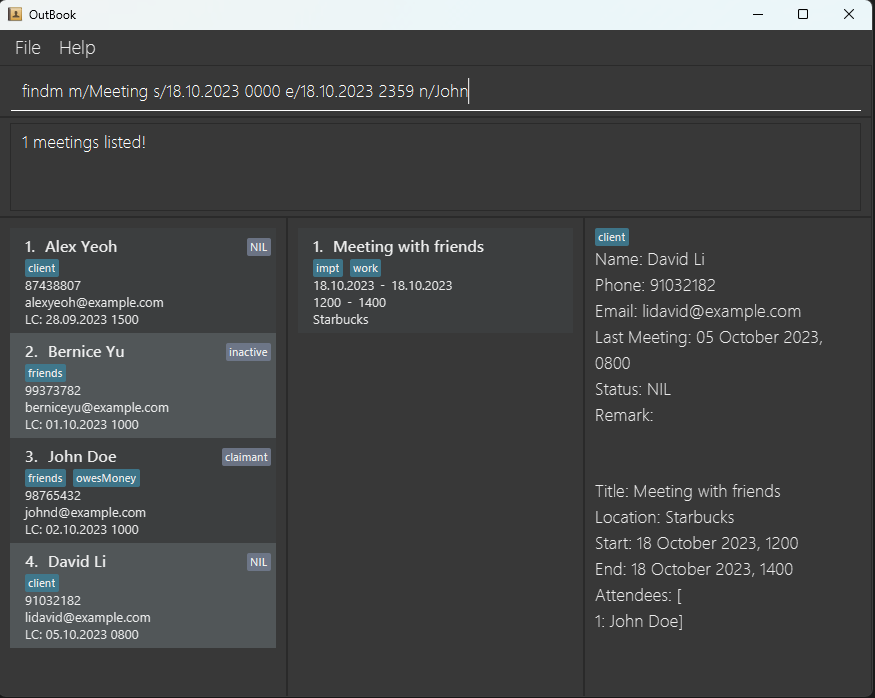
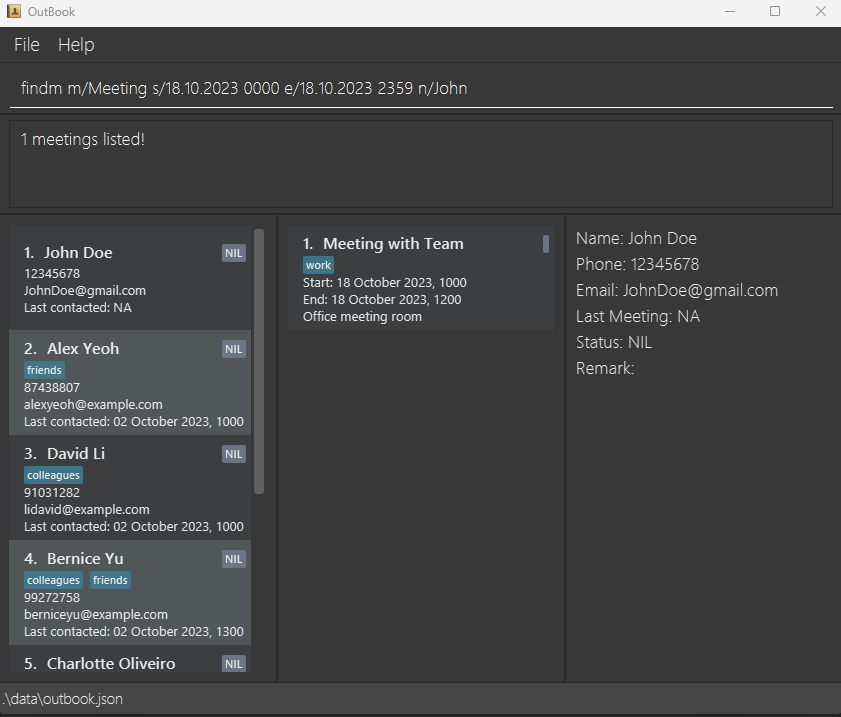
Update images

diff --git a/src/main/java/seedu/address/model/util/SampleDataUtil.java b/src/main/java/seedu/address/model/util/SampleDataUtil.java
@@ -37,7 +37,7 @@ public class SampleDataUtil {
                         DateTimeUtil.parse("02.10.2023 1500"), new Status(""), new Remark(""),
                         getTagSet("neighbours")),
             new Person(new Name("David Li"), new Phone("91031282"), new Email("lidavid@example.com"),
-                        LocalDateTime.parse("02.10.2023 1700", FORMAT), new Status(""), new Remark(""),
+                        DateTimeUtil.parse("02.10.2023 1000"), new Status(""), new Remark(""),
                         getTagSet("colleagues")),
             new Person(new Name("Irfan Ibrahim"), new Phone("92492021"), new Email("irfan@example.com"),
                         DateTimeUtil.parse("02.10.2023 1900"), new Status(""), new Remark(""),
@@ -51,12 +51,12 @@ public class SampleDataUtil {
     public static Meeting[] getSampleMeetings() {
         return new Meeting[] {
             new Meeting(new Title("Meeting with Alex"), new Location("Starbucks"),
-                    LocalDateTime.parse("02.10.2023 1000", FORMAT),
-                    LocalDateTime.parse("02.10.2023 1200", FORMAT),
+                    DateTimeUtil.parse("02.10.2023 1000"),
+                    DateTimeUtil.parse("02.10.2023 1200"),
                     getAttendeeSet("Alex Yeoh"), getTagSet("work"), new MeetingStatus(false)),
             new Meeting(new Title("Meet with team"), new Location("Office meeting room"),
-                    LocalDateTime.parse("03.10.2023 1000", FORMAT),
-                    LocalDateTime.parse("03.10.2023 1200", FORMAT),
+                    DateTimeUtil.parse("02.10.2023 1000"),
+                    DateTimeUtil.parse("03.10.2023 1200"),
                     getAttendeeSet("Bernice Yu", "David Li"), getTagSet("work"), new MeetingStatus(false)),
         };
     }

diff --git a/docs/UserGuide.md b/docs/UserGuide.md
@@ -369,7 +369,7 @@ Examples:
 
 <div style="page-break-after: always;"></div>
 
-![result for 'findAlexMeeting'](images/findJohnMeetingResult.png)
+![result for 'findJohnMeeting'](images/findJohnMeetingResult.png)
 
 <div style="page-break-after: always;"></div>
 
